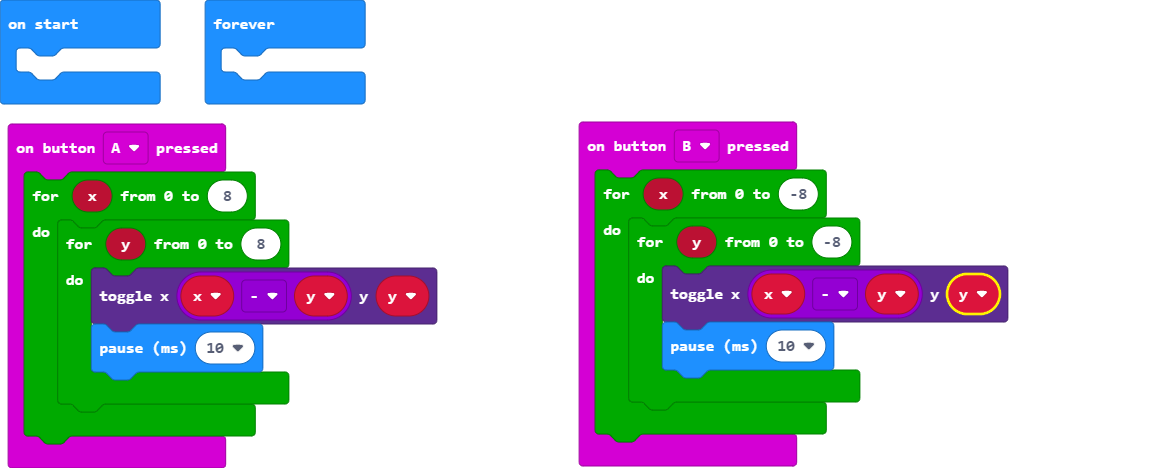
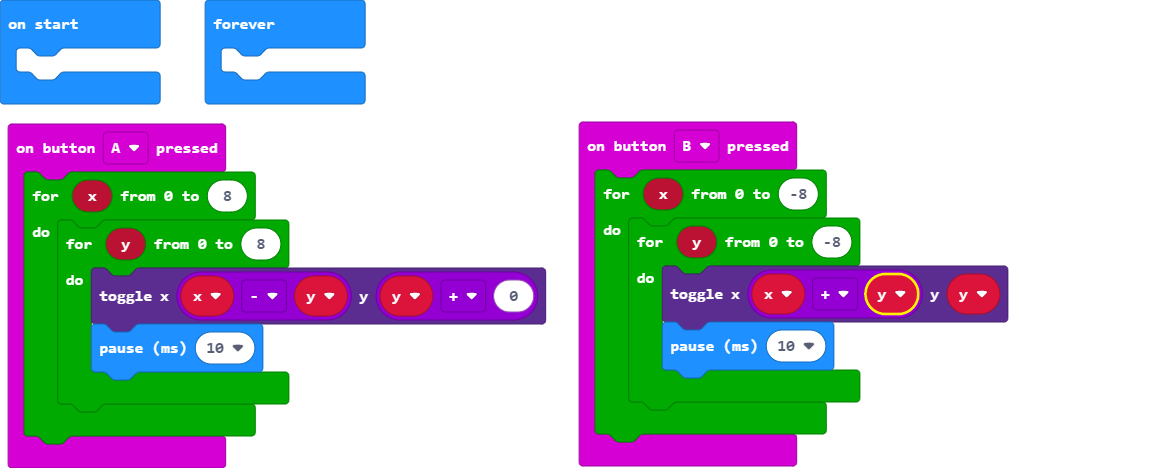
Update main.blocks, main.ts

Changed region(s): [[0.3093, 0.5684, 0.4948, 0.7179], [0.7423, 0.5684, 0.866, 0.688]]

diff --git a/main.ts b/main.ts
@@ -1,7 +1,7 @@
 input.onButtonPressed(Button.A, function () {
     for (let x = 0; x <= 8; x++) {
         for (let y = 0; y <= 8; y++) {
-            led.toggle(x - y, y)
+            led.toggle(x - y, y + 0)
             basic.pause(10)
         }
     }
@@ -9,7 +9,7 @@ input.onButtonPressed(Button.A, function () {
 input.onButtonPressed(Button.B, function () {
     for (let x = 0; x <= -8; x++) {
         for (let y = 0; y <= -8; y++) {
-            led.toggle(x - y, y)
+            led.toggle(x + y, y)
             basic.pause(10)
         }
     }
